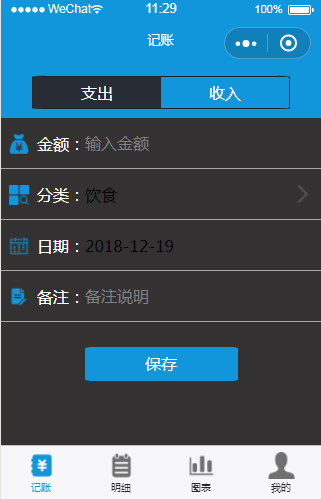
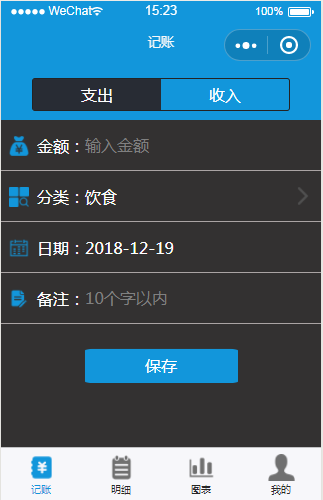
push github

diff --git a/src/pages/my/my.scss b/src/pages/my/my.scss
@@ -2,7 +2,7 @@
 	display: flex;
 	flex-direction: column;
 	height: 100%;
-	background-color: #ffffff;
+	background-color: #333131;
 	padding-top: 10px;
 	box-sizing: border-box;
 	.user-info-wrapper{
@@ -22,18 +22,17 @@
 			}
 		}
 		.user-info {
+			color: #ffffff;
 			flex: 1;
 			display: flex;
 			flex-direction: column;
 			padding-left: 10px;
 			.nickName{
-				color: #333030;
 				font-size: 20px;
 				position: relative;
 				top: 10px;
 			}
 			.user-id{
-				color: #312828;
 				font-size: 14px;
 				position: relative;
 				top: 20px;
@@ -81,7 +80,7 @@
 			align-items: center;
 		}
 	}
-	.message-wrapper{
+	.message-wrapper, .about-me{
 		position: absolute;
 		top: 0;
 		bottom: 0;
@@ -97,7 +96,7 @@
 			.content{
 				width: 300px;
 				height: 220px;
-				background-color: rgb(5, 48, 49);
+				background-color: #0fa13b;
 				display: flex;
 				flex-direction: column;
 				padding: 10px;
@@ -114,7 +113,7 @@
 					textarea{
 						flex: 1;
 						width: 80%;
-						border: solid #0a6da1 1px; 
+						border: solid #03699c 1px;
 						border-radius: 4px;
 						padding-left: 10px;
 						box-sizing: border-box;
@@ -130,17 +129,33 @@
 					.btn{
 						width: 120px;
 						height: 45px;
-						line-height: 40px;
-						text-align: center;
+						display: flex;
+						align-items: center;
+						justify-content: center;
 						border-radius: 4px;
 						color: #ffffff;
 						&.confirm{
-							background-color: #1AAD16;
+							background-color: #1296db;
 						}
 						&.cancel{
-							background-color: rgb(71, 73, 70);
+							background-color: rgb(53, 56, 53);
 						}
 					}
+				}
+			}
+			.about-content{
+				display: flex;
+				flex-direction: column;
+				width: 250px;
+				height: 100px;
+				background-color: #a7adb1;
+				color: #ffffff;
+				border-radius: 10px;
+				span{
+					flex: 1;
+					display: flex;
+					align-items: center;
+					justify-content: center;
 				}
 			}
 		}

diff --git a/src/pages/my/my.vue b/src/pages/my/my.vue
@@ -21,12 +21,20 @@
         <div class="content">
           <div class="message-input">
             <span>留言反馈</span>
-            <textarea placeholder="内容" v-model="message"/>
+            <textarea placeholder="30个字以内" maxlength="30" v-model="message"/>
           </div>
           <div class="btns">
             <div class="btn cancel" @click="closeMessage">取消</div>
             <div class="btn confirm" @click="sendMessage">提交</div>
           </div>
+        </div>
+      </div>
+    </div>
+    <div class="about-me" v-if="openAbout">
+      <div class="mask" @click="openAbout = false">
+        <div class="about-content" @click.stop="">
+          <span class="author">created by zhb</span>
+          <span class="email">email: zhb_hym@qq.com</span>
         </div>
       </div>
     </div>
@@ -45,11 +53,12 @@ export default {
       domList: [
         {id: 1, name: '留言反馈'},
         {id: 2, name: '系统消息'},
-        {id: 3, name: '土豪专属'}
+        {id: 3, name: '关于作者'}
       ],
       isAuthUserInfo: true, // 默认已授权用户信息
       openMessage: false, // 留言弹窗
       message: '',
+      openAbout: true,
     }
   },
 
@@ -76,6 +85,7 @@ export default {
         let url = '../reply/main';
         wx.navigateTo({ url });
       } else if (data.id == 3) {
+        this.openAbout = true;
       }
     },
     closeMessage() {
@@ -100,7 +110,7 @@ export default {
 
   computed: {
     getID() {
-      return util.getRandomLetter(6) + this.uid;
+      return util.getRandomLetter(9) + this.uid;
     }
   },
 

diff --git a/src/pages/detail/detail.scss b/src/pages/detail/detail.scss
@@ -37,15 +37,12 @@
 		.category-btns{
 			width: 160px;
 			display: flex;
-			// align-items: center;
 			justify-content: space-between;
 			.btn{
 				width: 45%;
 				height: 30px;
 				line-height: 30px;
-				// flex: 1;
 				text-align: center;
-				// background-color: #201e20;
 				border: 1px solid #201e20;
 				border-radius: 4px;
 				&.active{
@@ -59,6 +56,7 @@
 	.list-wrapper{
 		flex: 1;
 		overflow-y: scroll;
+		background-color: #333131;
 		.item-day{
 			.day-bar{
 				height: 30px;
@@ -66,7 +64,7 @@
 				display: flex;
 				align-items: center;
 				justify-content: space-between;
-				background-color: #0ddb8c;
+				background-color: #0a6da1;
 				padding: 0 10px;
 				box-sizing: border-box;
 				font-size: 12px;
@@ -74,7 +72,6 @@
 			.item-list{
 				width: 100%;
 				box-sizing: border-box;
-				// padding-left: 20px;
 				.item{
 					height: 40px;
 					display: flex;
@@ -92,7 +89,7 @@
 						height: 30px;
 						align-items: center;
 						justify-content: center;
-						background-color: #df0e0e;
+						background-color: #14a33f;
 						border-radius: 4px;
 						color: #fff;
 					}

diff --git a/src/pages/index/index.vue b/src/pages/index/index.vue
@@ -10,7 +10,7 @@
       <div class="item-wrapper">
         <div class="icon money"></div>
         <div class="title">金额：</div>
-        <div class="input-wrapper"><input type="text" placeholder="输入金额" v-model="rmb"></div>
+        <div class="input-wrapper"><input type="number" placeholder="输入金额" v-model="rmb"></div>
       </div>
       <div class="item-wrapper" @click="openCategory">
         <div class="icon category"></div>
@@ -33,7 +33,9 @@
       <div class="item-wrapper remarks">
         <div class="icon remarks"></div>
         <div class="title">备注：</div>
-        <div class="remarks-text"><input type="text" placeholder="备注说明" v-model="remark"></div>
+        <div class="remarks-text">
+          <input type="text" maxlength="10" placeholder="10个字以内" v-model="remark">
+        </div>
       </div>
       <div class="save-btn" @click="save()">保存</div>
     </div>

diff --git a/src/pages/chart/chart.vue b/src/pages/chart/chart.vue
@@ -1,17 +1,5 @@
 <template>
   <div class="chart-page">
-    <!-- <div class="header-bar">
-      <div class="date-picker-wrapper">
-        <picker
-            mode="date"
-            value="currentMonth"
-            fields="month"
-            @change="pickDate">
-          <span>{{currentMonth + '月'}}</span>
-          <span class="icon"></span>
-        </picker>
-      </div>
-    </div> -->
     <div class="chart-wrapper">
       <div class="charts">
         <div class="chart-wrapper">
@@ -202,7 +190,7 @@ export default {
 
   created() {
   },
-  mounted() {
+  onShow() {
     console.log('chart mounted')
     setTimeout(() => {
       this.getDataList();

diff --git a/src/pages/index/index.scss b/src/pages/index/index.scss
@@ -15,7 +15,7 @@
       width: 300px;
       height: 60%;
       border: 1px solid rgb(36, 35, 35);
-      border-radius: 5%;
+      border-radius: 4px;
       .tab-item{
         color: #fff;
         flex: 1;
@@ -43,6 +43,7 @@
       border-bottom: solid 1px rgb(170, 164, 164);
       padding: 0 10px;
       box-sizing: border-box;
+      color: #ffffff;
       .icon{
         width: 24px;
         height: 32px;

diff --git a/src/pages/detail/detail.vue b/src/pages/detail/detail.vue
@@ -52,8 +52,8 @@ export default {
   created() {
     // console.log('detail created')
   },
-  onLoad() {
-    console.log('detail onLoad')
+  onShow() {
+    console.log('detail onShow');
     this.loadData();
   },
 

diff --git a/src/components/category/category.scss b/src/components/category/category.scss
@@ -53,7 +53,7 @@
 					align-items: center;
 					border-radius: 4px;
 					&.cancel-btn{
-						background-color: #1AAD16;
+						background-color: rgb(53, 56, 53);
 						color: #ffffff;
 					}
 					&.confirm-btn{

diff --git a/src/utils/config.js b/src/utils/config.js
@@ -1,3 +1,4 @@
 module.exports = {
-  host: 'http://localhost:8889'
+  // host: 'http://localhost:8889'
+  host: 'https://yumyen.cn'
 }

diff --git a/README.md b/README.md
@@ -11,7 +11,7 @@
 之前自学的微信的时候都是用原生开发，现在有一些微信小程序开发框架如mpvue，wepy等，于是就趁着这个机会接触接触，最后选了mpvue来开发，已经有3个月没接触vue.js了，顺便温习一下vue.js
 2. 服务端：nodeJS + koa2 + mysql， 项目代码可见我的另一个项目'jizhang-server'
 
-## 界面截图
+## 界面截图(UI有点丑，全靠心情随意搭配)
 ![avatar](/jietu/1.png)
 ![avatar](/jietu/2.png)
 ![avatar](/jietu/3.png)
